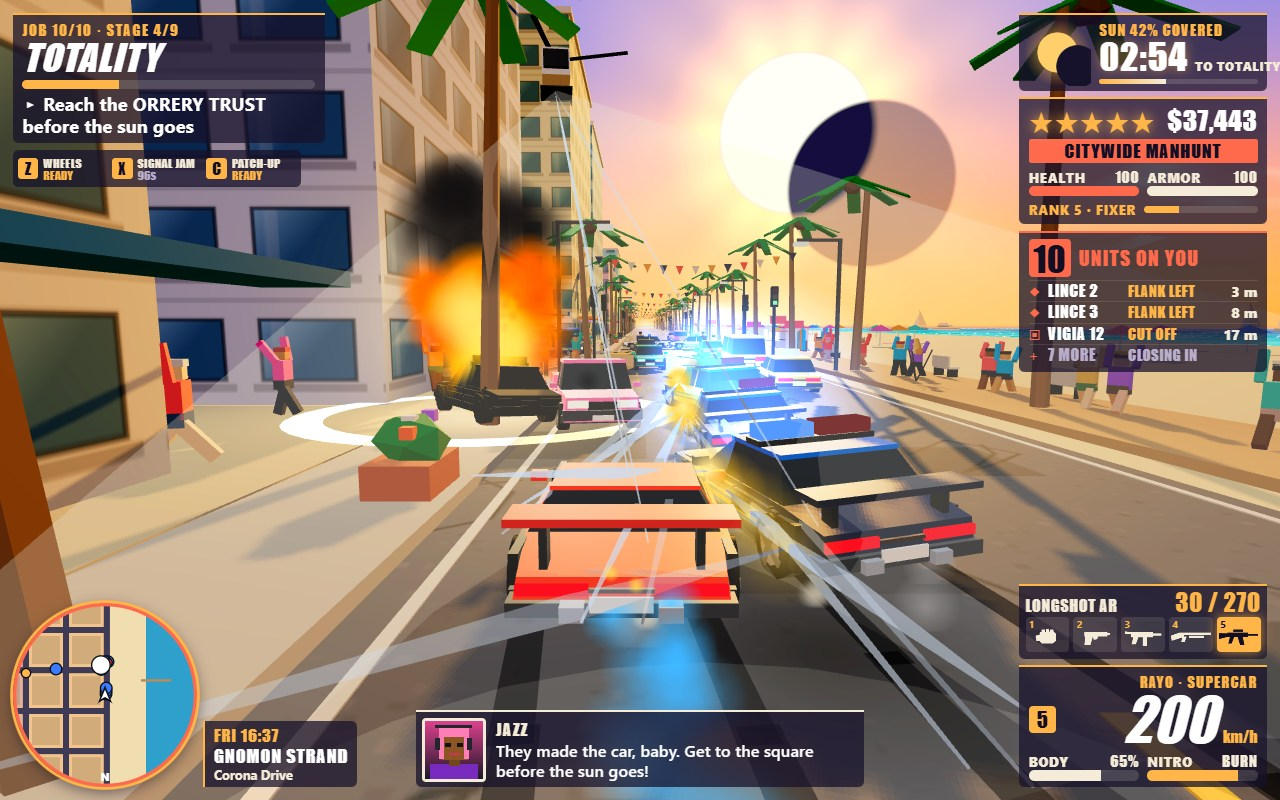
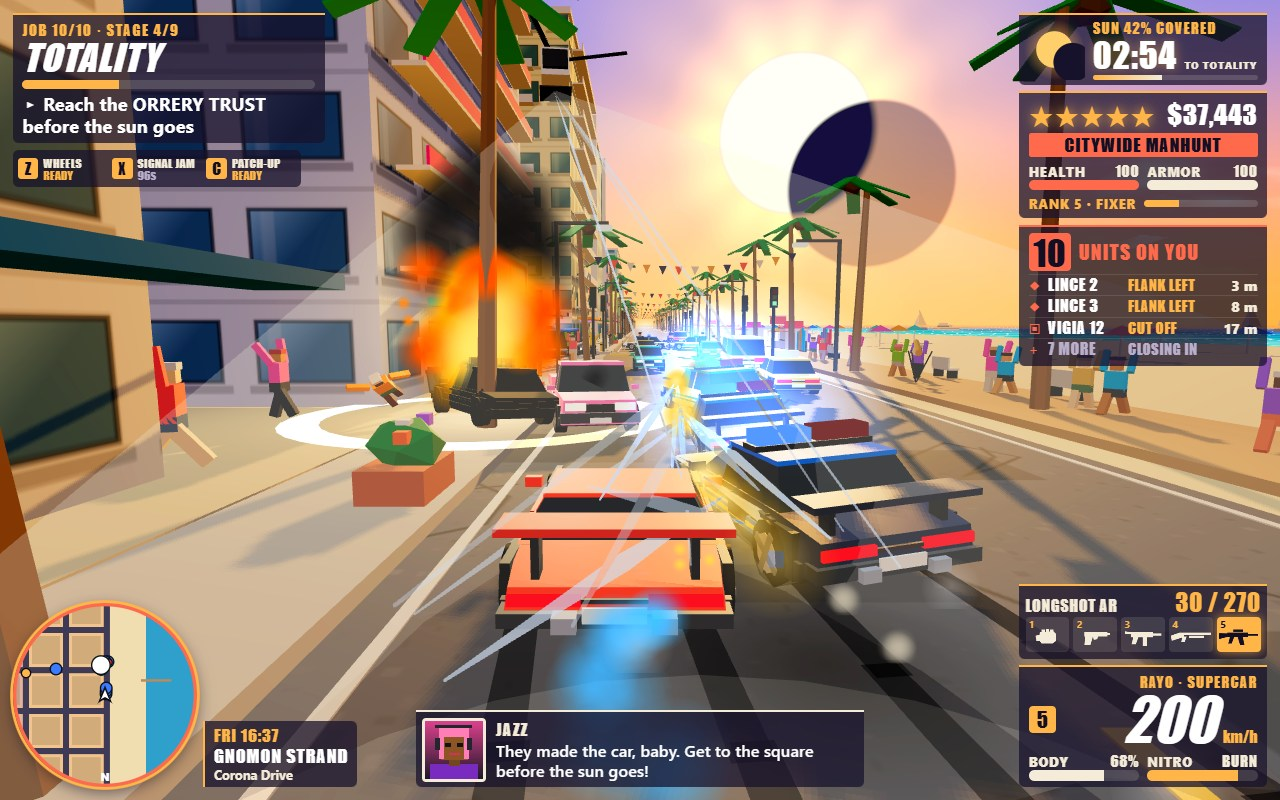
Fronts with balconies, piers, cornices and set-back storeys, banded towers, a fuller pavement on the cover, eclipse panel that fits its countdown, README, final screenshots

diff --git a/game/src/world/buildings.js b/game/src/world/buildings.js
@@ -14,6 +14,8 @@ const TINTS = {
   hill: ['#fff4e0', '#ffe0c2', '#e8f0d8', '#f7d9d0', '#dfeaf5', '#fbe8a6'],
   yards: ['#9db4c0', '#c2b8a3', '#b56b5a', '#7d9a8c', '#d0d0cc', '#6f8fae'],
 };
+/** Rails, piers and cornices: the second colour of a front. */
+const TRIMS = ['#f4efe6', '#2d3142', '#c0553a', '#1fb5a6', '#ffb547', '#7a5c48', '#e84393', '#3a86ff'];
 const AWNINGS = ['#e74c3c', '#16a085', '#f39c12', '#2980b9', '#e84393', '#27ae60', '#ffffff'];
 const CONTAINER_COLORS = ['#c0392b', '#2471a3', '#d68910', '#1e8449', '#7d3c98', '#839192', '#e67e22'];
 
@@ -50,6 +52,7 @@ export class CityBuildings {
     this.scene = scene;
     this.collision = collision;
     this.rng = new SeededRandom(CITY.seed);
+    this.detailRng = new SeededRandom(CITY.seed + 909);
     this.batches = {};
     this.materials = {};
     for (const style of Object.keys(FACADE_TILE)) {
@@ -90,6 +93,80 @@ export class CityBuildings {
     this.plain.addBox(cx, CITY.curb + height, cz, width + 0.5, 0.6, depth + 0.5, '#f4efe6');
     this.collision.addBox(minX, minZ, maxX, maxZ, height + 1);
     return { cx, cz, width, depth, top: CITY.curb + height + 0.6 };
+  }
+
+  /** The walls of a building that face a street, each with its middle, its outward normal and its length. */
+  streetWalls(cell, roof) {
+    const walls = [];
+    if (cell.edgeN) walls.push({ x: roof.cx, z: roof.cz - roof.depth / 2, nx: 0, nz: -1, length: roof.width });
+    if (cell.edgeS) walls.push({ x: roof.cx, z: roof.cz + roof.depth / 2, nx: 0, nz: 1, length: roof.width });
+    if (cell.edgeW) walls.push({ x: roof.cx - roof.width / 2, z: roof.cz, nx: -1, nz: 0, length: roof.depth });
+    if (cell.edgeE) walls.push({ x: roof.cx + roof.width / 2, z: roof.cz, nx: 1, nz: 0, length: roof.depth });
+    return walls;
+  }
+
+  /**
+   * Relief on what would otherwise be a plain box, so no two fronts on a street look alike: rows of balconies with
+   * coloured rails, corner piers, a cornice, a set-back upper storey, a rooftop pool. It draws from its own random
+   * stream, so the lots, heights and colliders the rest of the game relies on never move. Returns the new top.
+   */
+  dressFacade(district, cell, roof, style, tint) {
+    const rng = this.detailRng;
+    const trim = rng.pick(TRIMS);
+    const base = CITY.curb;
+    const wallTop = roof.top - 0.6;
+    const walls = this.streetWalls(cell, roof);
+    const look = rng.int(0, 3);
+    if (look !== 3) {
+      // Balconies: a slab and a rail on every floor of the street walls, in a run narrower than the wall.
+      const run = rng.range(0.55, 0.9);
+      for (const wall of walls) {
+        const along = wall.length * run;
+        for (let y = base + 4.3; y < wallTop - 1.6; y += 3.2) {
+          this.plain.addBox(wall.x + wall.nx * 0.55, y, wall.z + wall.nz * 0.55, wall.nx ? 1.1 : along, 0.16, wall.nz ? 1.1 : along, '#f4efe6');
+          this.plain.addBox(wall.x + wall.nx * 1.05, y + 0.16, wall.z + wall.nz * 1.05, wall.nx ? 0.1 : along, 0.6, wall.nz ? 0.1 : along, trim);
+        }
+      }
+    }
+    if (look === 1 || look === 3) {
+      // Piers in the trim colour up the ends of each street wall, standing a little proud of the roof line.
+      for (const wall of walls) {
+        for (const end of [-1, 1]) {
+          const reach = (wall.length / 2 - 0.5) * end;
+          this.plain.addBox(wall.x + wall.nx * 0.2 + (wall.nz ? reach : 0), base, wall.z + wall.nz * 0.2 + (wall.nx ? reach : 0), 1, wallTop - base + 1.5, 1, trim);
+        }
+      }
+    }
+    if (district === 'azimuth' || look === 2) this.plain.addBox(roof.cx, wallTop - 1.1, roof.cz, roof.width + 0.8, 0.5, roof.depth + 0.8, trim);
+    let top = roof.top;
+    if (rng.chance(0.42)) {
+      // A set-back upper storey or two, with its own parapet.
+      const extra = rng.range(4, district === 'strand' ? 13 : 8);
+      const share = rng.range(0.5, 0.72);
+      this.batches[style].addBox(roof.cx, roof.top, roof.cz, roof.width * share, extra, roof.depth * share, tint, { tile: FACADE_TILE[style], uvOffset: rng.int(0, 3) * 0.25 });
+      this.plain.addBox(roof.cx, roof.top + extra, roof.cz, roof.width * share + 0.5, 0.5, roof.depth * share + 0.5, trim);
+      top = roof.top + extra + 0.5;
+    } else if (district === 'strand' && rng.chance(0.5)) {
+      // A rooftop pool with its deck.
+      this.plain.addBox(roof.cx, roof.top, roof.cz + roof.depth * 0.2, roof.width * 0.5, 0.25, roof.depth * 0.26, '#35c4e8');
+      this.plain.addBox(roof.cx, roof.top, roof.cz - roof.depth * 0.22, roof.width * 0.3, 2.4, 0.3, trim);
+    }
+    return top;
+  }
+
+  /** Break a glass tower's height with pale sky-lobby bands and, on some, a spine up one corner. */
+  bandTower(tower) {
+    const rng = this.detailRng;
+    const height = tower.top - 0.6 - CITY.curb;
+    const bands = rng.int(0, 3);
+    for (let band = 1; band <= bands; band += 1) {
+      this.plain.addBox(tower.cx, CITY.curb + (height * band) / (bands + 1), tower.cz, tower.width + 0.6, 1.2, tower.depth + 0.6, '#e9e4da');
+    }
+    if (rng.chance(0.5)) {
+      const sx = rng.chance(0.5) ? 1 : -1;
+      const sz = rng.chance(0.5) ? 1 : -1;
+      this.plain.addBox(tower.cx + (tower.width / 2) * sx, CITY.curb, tower.cz + (tower.depth / 2) * sz, 2.2, height + rng.range(3, 9), 2.2, rng.pick(TRIMS));
+    }
   }
 
   roofClutter(roof, count) {
@@ -150,6 +227,7 @@ export class CityBuildings {
         } else {
           this.roofClutter(tower, 3);
         }
+        this.bandTower(tower);
         tallest = Math.max(tallest, tower.top, podium.top);
       }
     } else if (district === 'strand') {
@@ -158,14 +236,16 @@ export class CityBuildings {
         const roof = this.raise(cell, rng.range(0.5, 2.5), rng.range(13, 36), 'hotel', tint);
         this.plain.addBox(roof.cx, roof.top, roof.cz, roof.width * 0.4, 2.2, roof.depth * 0.4, tint);
         this.awnings(cell, 0.5, rng.pick(AWNINGS));
-        tallest = Math.max(tallest, roof.top);
+        tallest = Math.max(tallest, this.dressFacade(district, cell, roof, 'hotel', tint));
       }
     } else if (district === 'azimuth') {
       for (const cell of splitLot(lot, rng.chance(0.5) ? 3 : 2, 2, 3)) {
-        const roof = this.raise(cell, rng.range(0, 1.5), rng.range(8, 26), rng.chance(0.55) ? 'shop' : 'hotel', rng.pick(TINTS.azimuth));
+        const style = rng.chance(0.55) ? 'shop' : 'hotel';
+        const tint = rng.pick(TINTS.azimuth);
+        const roof = this.raise(cell, rng.range(0, 1.5), rng.range(8, 26), style, tint);
         this.roofClutter(roof, rng.int(0, 2));
         this.awnings(cell, 0, rng.pick(AWNINGS));
-        tallest = Math.max(tallest, roof.top);
+        tallest = Math.max(tallest, this.dressFacade(district, cell, roof, style, tint));
       }
     } else if (district === 'hill') {
       for (const cell of splitLot(lot, 3, 3, 6)) {

diff --git a/game/css/hud.css b/game/css/hud.css
@@ -59,12 +59,12 @@ html, body { margin: 0; height: 100%; overflow: hidden; background: #0b0818; col
 
 /* Eclipse panel, top right: the sun as it stands, and the countdown to totality */
 .eclipse-panel { display: flex; align-items: center; gap: 1vh; padding: 0.5vh 1.2vh 0.6vh 0.6vh; }
-.eclipse-disc { width: 8.4vh; height: 8.4vh; flex: none; }
+.eclipse-disc { width: 7.6vh; height: 7.6vh; flex: none; }
 .eclipse-text { flex: 1; min-width: 0; }
 .eclipse-caption { font-family: var(--display); font-size: 1.9vh; letter-spacing: 0.12vh; color: var(--amber); white-space: nowrap; overflow: hidden; }
-.eclipse-row { display: flex; align-items: baseline; gap: 0.9vh; white-space: nowrap; }
-.eclipse-big { font-family: var(--display); font-weight: 400; font-size: 4.6vh; line-height: 1; letter-spacing: 0.12vh; color: #fff; text-shadow: 0 0 1.4vh rgba(255, 181, 71, 0.55); }
-.eclipse-line { font-size: 1.45vh; font-weight: 800; letter-spacing: 0.1vh; color: var(--cream); }
+.eclipse-row { display: flex; flex-wrap: wrap; align-items: baseline; column-gap: 0.9vh; white-space: nowrap; }
+.eclipse-big { font-family: var(--display); font-weight: 400; font-size: 4.4vh; line-height: 1; letter-spacing: 0.1vh; color: #fff; text-shadow: 0 0 1.4vh rgba(255, 181, 71, 0.55); }
+.eclipse-line { font-size: 1.3vh; font-weight: 800; letter-spacing: 0.04vh; color: var(--cream); }
 .eclipse-track { height: 0.6vh; margin-top: 0.4vh; background: rgba(244, 236, 216, 0.16); border-radius: 0.5vh; overflow: hidden; }
 .eclipse-track i { display: block; height: 100%; width: 0; background: linear-gradient(90deg, var(--amber), var(--cream)); }
 .eclipse-panel.totality { border-top-color: var(--cream); background: rgba(10, 8, 24, 0.84); }

diff --git a/game/src/debug/screenshotScenes.js b/game/src/debug/screenshotScenes.js
@@ -145,7 +145,7 @@ function chaseScene(game) {
   ];
   for (const [model, x, z, heading, paint, panics] of traffic) spawnCivilianCar(game, model, x, z, heading, paint, panics);
   // The pavement and the boardwalk are full on eclipse afternoon; the people nearest the chase are already running.
-  for (const [x, z] of [[7.3, 4], [8.1, 8], [7.6, 13], [8.4, 17], [7.2, 22], [8.0, 28], [7.5, 35], [8.3, 43], [7.4, 52]]) {
+  for (const [x, z] of [[7.3, 4], [8.1, 8], [7.9, 10.5], [7.6, 13], [7.2, 15.5], [8.4, 17], [8.0, 19.5], [7.2, 22], [8.0, 28], [7.5, 35], [8.3, 43], [7.4, 52]]) {
     if (z < 24) game.pedestrians.spawnFleeing(x, zEnd + z, { x: lane, z: zEnd }); else spawnStroller(game, x, zEnd + z);
   }
   for (const z of [3, 7, 12, 18, 25, 33, 42]) spawnStroller(game, -9.5 + (z % 3) * 0.6, zEnd + z, true);

diff --git a/README.md b/README.md
@@ -36,13 +36,16 @@ dark. Nine jobs across four days set the crew up. The tenth is the vault, robbed
   Observatory Hill, Cormorant Yards, Jacaranda Gardens), named streets and shops, pavements with benches, bus
   shelters and planters, a boardwalk with kiosks, a beach with boats offshore, docks with a container ship and a park.
 - **Traffic and pedestrians**: drivers keep their lanes, obey traffic lights, brake, honk and panic; citizens walk
-  the sidewalks and the boardwalk, cross at corners and run from danger.
+  the sidewalks and the boardwalk, cross at corners, and when shots are fired run with their hands in the air or
+  drop to the ground where they stand. Beside any car, the game rings it and offers F to steal it or pull its
+  driver out.
 - **Twelve vehicles to steal and drive**, from the Avocet compact to the Rayo supercar and the Lince police
   interceptor, with drift, handbrake, crashes, damage, fire and explosions, and three radio stations of generated music.
 - **A five-star wanted level with a tiered police response**. Every unit has a callsign and a tactic the HUD's
-  dispatch panel lists live: patrol cars that tail for an arrest, interceptors that flank for a side-swipe or cut
-  the road off, tactical vans that unload a squad, roadblocks with spike strips, and a helicopter that opens fire
-  at four stars. Break line of sight, respray the car, have Jazz jam their radio, or wait for the dark.
+  dispatch panel lists live under a count of every unit on the player: patrol cars that tail for an arrest,
+  interceptors that flank for a side-swipe or cut the road off, officers who shoot from the car window from three
+  stars, tactical vans that unload a squad, roadblocks with spike strips, and a helicopter that opens fire at four
+  stars. Break line of sight, respray the car, have Jazz jam their radio, or wait for the dark.
 - **A ten-job story in stages** with dialogue and portraits, timers, deliveries, a race, shoot-outs, chases, a
   clinic to defend at night and the vault job, which runs from first contact through totality.
 - **Progression**: street cred raises Nova through eight ranks; ranks unlock crew favors (Z a getaway car, X a
@@ -53,9 +56,10 @@ dark. Nine jobs across four days set the crew up. The tenth is the vault, robbed
   taxi fares, twelve hidden Corona Tokens and powerslide bonuses.
 - **Combat**: fists and four guns, aiming, headshots, armed enforcers, guards and capos.
 - **HUD and menus**: one palette (shadow indigo, low-sun amber, coral, corona cream) across a rotating minimap, the
-  job panel, the eclipse panel, status, dispatch and vehicle panels, a GPS list on foot, a city atlas with the map,
-  the path of totality, the week's jobs day by day, statistics and save slots, a start screen with three save
-  slots, pause menu, settings and shop counters. Progress saves to the browser (localStorage).
+  job panel, the eclipse panel, status, dispatch and vehicle panels, a weapon bar with a silhouette for each gun, a
+  GPS list on a quiet walk, a city atlas with the map, the path of totality, the week's jobs day by day and the
+  three save slots as cards, a start screen with the same slots, pause menu with statistics, settings and shop
+  counters. Progress saves to the browser (localStorage).
 
 Everything is original: the city, names, characters, vehicles and story. Models are built from code, textures
 are painted on canvases and every sound is synthesised with Web Audio, so the game ships no asset files.
